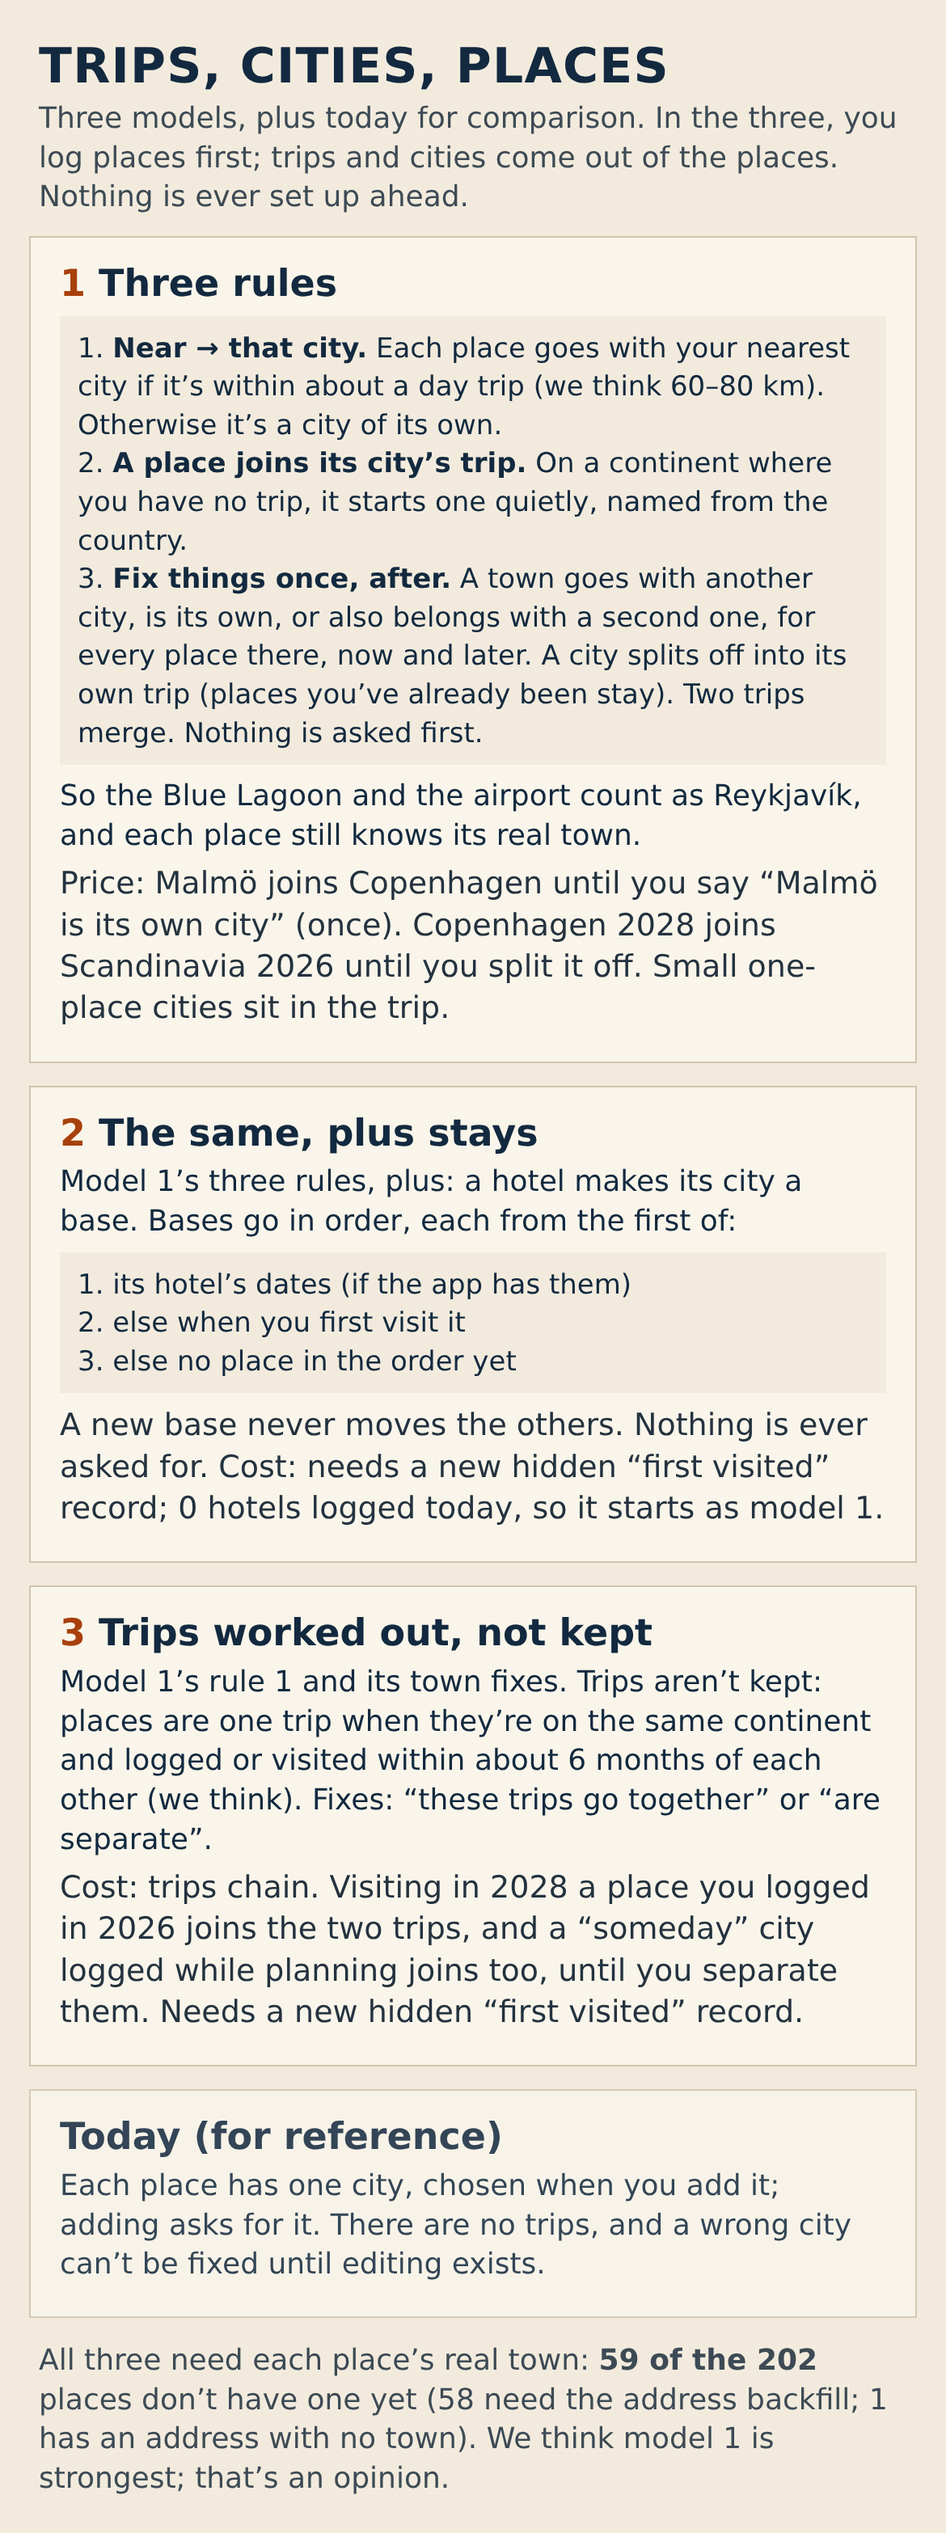
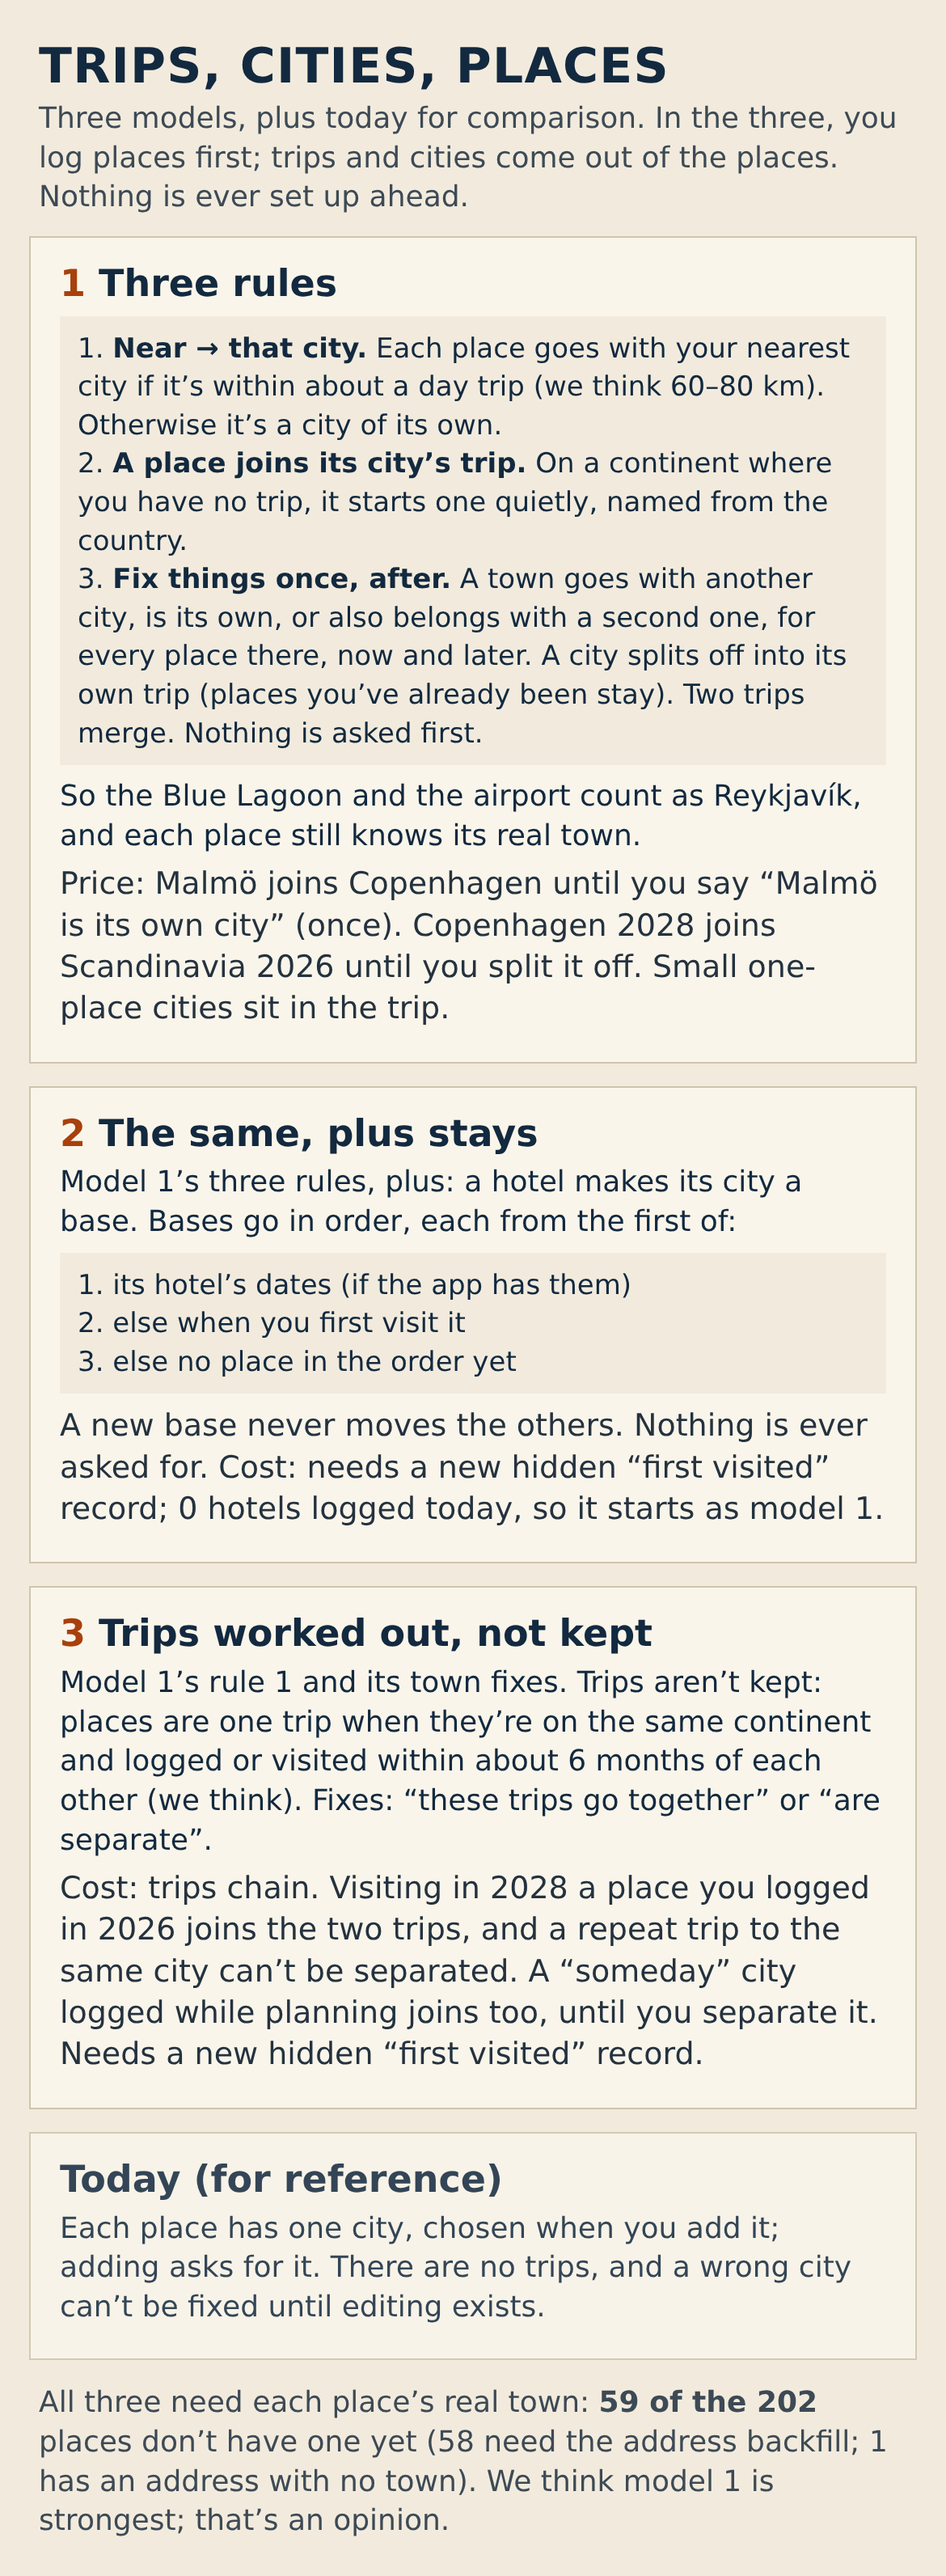
trip-model: Turn 22 honesty edits
Claude-Session: https://claude.ai/code/session_01KJurQQYHfCNMLJBzKaXeDY

diff --git a/design/trip-location-model/jobs.md b/design/trip-location-model/jobs.md
@@ -61,8 +61,9 @@ Every job below is read through P.
 - **Figure** (a "city" in the concept files): "the city I think of it
   with", a named group of places in one trip, made by rule 1 and the
   fixes.
-- **Reach:** about a day trip (we think 60-80 km, unmeasured), measured
-  to a figure's anchor (plumbing).
+- **Reach:** about a day trip (we think 60-80 km, unmeasured), a
+  straight line to a figure's anchor: the centre of its places, never a
+  municipal seat (plumbing).
 - **Rule 1:** each place by its own distance: within reach → the
   nearest figure; otherwise a figure of its own, even with one place.
   Only the owner's fixes override it; nothing else is remembered.
@@ -126,7 +127,8 @@ Every job below is read through P.
     - Check (1, 2): PASS if another trip's places never mix into this
       trip's views, that trip is one step away, and a repeat or someday
       trip on the same continent can be separated by fixes, never per
-      place (one split per city it covers).
+      place (one split per city it covers, plus merges to rejoin the
+      split cities into one trip for a multi-city repeat).
     - Check (3): PASS if all places can be seen together, with the
       trips distinct and nameable.
 11. **The map shows what the list shows.**
@@ -172,7 +174,7 @@ needs one fix fewer.
 | **T1 Øresund:** Saltholm, Kastrup Søbad (both in Tårnby municipality; Saltholm's we believe, not verified), with Malmö logged | All three are in the Copenhagen figure with nothing chosen. Putting Tårnby with Malmö takes **two fixes**: "Malmö is its own", then "Tårnby goes with Malmö", each moving every place in its town. (If OSM gives Saltholm no town or municipality, the second fix doesn't move it: say so.) FAIL if any step is per place |
 | **T2 The airport:** Keflavík (Reykjanesbær, about 50 km from Reykjavík); Kastrup (Tårnby), for both Copenhagen and Malmö | Keflavík is in Reykjavík with nothing chosen. Kastrup is in Copenhagen; in Malmö too after **two fixes** ("Malmö is its own", then "Tårnby also belongs with Malmö"). Concept 2: an airport is never a base |
 | **T3 Jönköping:** about 300 km from both Stockholm and Malmö | **a figure of its own** in the trip, in any logging order, with nothing chosen |
-| **T4 Repeat and someday trips:** Copenhagen in 2028, after Scandinavia 2026; Berlin logged while planning Scandinavia | concepts 1 and 2: both join Scandinavia, and **one split fix** each separates them (the split takes unvisited places, so 2026's visits stay). Concept 3: 2028 separates by time only if no 2026 place is visited in 2028; otherwise, and for Berlin, "these are separate" |
+| **T4 Repeat and someday trips:** Copenhagen in 2028, after Scandinavia 2026; Berlin logged while planning Scandinavia | concepts 1 and 2: both join Scandinavia, and **one split fix** each separates them (the split takes unvisited places, so 2026's visits stay). Concept 3: Berlin needs "these are separate"; 2028 separates only if nothing chains it to 2026, and a chained repeat to the same city can't be separated (a FAIL, in its Known limits) |
 
 Reference (today): it fails P, jobs 1, 2, 4-10, 12 and 13, and T1-T4,
 and passes 3 (a city filter, on the letter) and 11 (list and map share

diff --git a/design/trip-location-model/concepts/1-rule-that-remembers.md b/design/trip-location-model/concepts/1-rule-that-remembers.md
@@ -29,9 +29,10 @@ Nothing is created, named, chosen or dated before adding.
 
 ## Invisible plumbing (not needed for the common case)
 
-- **Reach** is measured to a city's **anchor**: the centre of its town
-  with the most places (ties: the earliest). The city takes that town's
-  name.
+- **Reach is a straight line**, measured to a city's **anchor**: the
+  centre of the city's own places in its town with the most places
+  (ties: the earliest). It's where your places are, never a municipal
+  seat. The city takes that town's name.
 - **A new city's trip:** the trip of the nearest city on its continent
   (normally your only one there). If a city is in two trips (Copenhagen
   2026 and 2028), the one added to most recently. A fix names a city;
@@ -66,13 +67,20 @@ Nothing is created, named, chosen or dated before adding.
 
 ## Worked case: the Golden Circle (rule 1, no memory)
 
-Þingvellir (about 45 km from Reykjavík), Geysir (about 100 km) and
-Gullfoss (about 115 km) are all in Bláskógabyggð municipality.
-- Þingvellir goes with Reykjavík (within reach).
-- Geysir is beyond reach → a city of its own, named "Bláskógabyggð".
-  Gullfoss, about 10 km from it, joins it. In either order.
-- If the owner wants all three under Reykjavík: one fix,
-  "Bláskógabyggð goes with Reykjavík".
+Þingvellir, Geysir and Gullfoss are all in Bláskógabyggð municipality.
+Straight-line distances are **approximate, from known coordinates, not
+measured**: Reykjavík → Þingvellir about 41 km, → Geysir about 81 km,
+→ Gullfoss about 90 km; Geysir → Gullfoss about 10 km; Geysir →
+Þingvellir about 41 km.
+- Gullfoss is beyond reach → a city of its own ("Bláskógabyggð"), and
+  Geysir, about 10 km away, joins it. Geysir alone sits at the edge of a
+  60-80 km reach, so on its own it could go either way.
+- **Þingvellir is roughly a tie** between Reykjavík and that new city.
+  It can land either way, depending on what's logged and the exact
+  anchors.
+- **One fix settles it** either way: "Bláskógabyggð goes with
+  Reykjavík" puts all three under Reykjavík; "Bláskógabyggð is its own
+  city" keeps all three together, Þingvellir included.
 
 ## The prices, said plainly
 
@@ -100,6 +108,8 @@ Gullfoss (about 115 km) are all in Bláskógabyggð municipality.
 - **The name can change** as another town in a city overtakes the
   anchor, and **reach is a range**, so a place at about 70 km is a
   judgement call until the number is measured.
+- **Near-ties between two cities** (Þingvellir) can land either way; one
+  town fix settles them.
 
 ## How you move
 

diff --git a/design/trip-location-model/jam.md b/design/trip-location-model/jam.md
@@ -2275,3 +2275,38 @@ rule is now a one-line **Known limit**.
 
 NEXT: fresh checker (light pass on the ids above); then the
 orchestrator sends the overview and Q1-Q6, Q8.
+
+## Turn 22 -- product designer (systems focus): check 5's two claims (honesty edits only)
+
+No new rules.
+
+- **F0, reach and the Golden Circle:**
+  - Concept 1's plumbing and jobs.md Terms now say reach is a
+    **straight line** to the anchor. The anchor is **the centre of the
+    city's own places** in its biggest town, never a municipal seat.
+  - The Golden Circle case is redone with approximate straight-line
+    distances (from known coordinates, **not measured**):
+    - Reykjavík → Þingvellir about 41 km, → Geysir about 81 km, →
+      Gullfoss about 90 km;
+    - Geysir → Gullfoss about 10 km, → Þingvellir about 41 km.
+  - Results:
+    - Geysir sits at the edge of reach.
+    - **Þingvellir is roughly a tie and can land either way.**
+    - One fix settles it.
+  - "Near-ties between two cities" is added to Known limits.
+- **F1, concept 3's T4:**
+  - It's graded **FAIL for a repeat trip to the same city**. When the
+    places chain, "separate" is keyed by cities, Copenhagen is in both
+    trips, and nothing says which places go where.
+  - It moves into Known limits as a one-liner.
+  - Berlin still passes.
+  - jobs.md T4 says so.
+- **J10 (jobs.md):** a multi-city repeat now reads "one split per city,
+  plus merges to rejoin them", matching concept 1's limit.
+- **Concept 2:** "only Hotel-category places are stays, so an airport, a
+  district or a street is never a base".
+- **Overview:** card 3's cost now says a repeat trip to the same city
+  can't be separated. It was re-rendered (1170x3185) and read at phone
+  size.
+
+NEXT: orchestrator — send the overview and Q1-Q6, Q8.

diff --git a/design/trip-location-model/notes/systems.md b/design/trip-location-model/notes/systems.md
@@ -47,3 +47,4 @@
 - Turn 17: check 3 applied. Trip assignment (active trip with the real city → nearest active same-continent trip → new; past = 60 days; continent table; view never decides; split correction; global memory). Nearby band 300 km replaces the spread. Concept 2: stay promotes On-the-way town; non-base figures unordered; ties; no-time visits. Concept 3: continent + 6-month time-gap clusters. No-town → next OSM level, else by location. Districts/streets = places. jobs 5/8/12 tightened; today passes 11 only; T2 both branches. Overview re-rendered 1170x3520. Q5 extended (widen vs own trip).
 - Turn 19: Turn 18 applied. Concept 1 = three rules + plumbing; 2 = +hotel base +order; 3 = rules 1,3 + time-gap rule; files open with numbered rules. jobs: C4 retired, T1/T2 border off (two fixes), T3 own city, new T4 (split). Split takes unvisited places (needs director check). Overview 1170x2911. No 'he' found in Turn 18.
 - Turn 21: final pass. Rule 2 = 'joins its city's trip'; memory = owner fixes only (Golden Circle by distance); rule 3 lists goes with/is its own/also belongs with/split (visited stay)/merge; Known limits in 1/2/3; concept 3 heading 'Trips worked out, not kept', How you move as concept 1, honest T4, first-visited prereq; today J3 PASS, T4 FAIL, C4 gone; overview price lines darker/larger, 1170x3133.
+- Turn 22: F0 (straight-line reach from the city's own places; Golden Circle approx, Þingvellir a tie, one fix), F1 (concept 3 T4 FAIL for a same-city repeat, in Known limits), J10 splits+merges, concept 2 airport line; overview card 3 cost, 1170x3185.

diff --git a/design/trip-location-model/concepts/3-no-trip-container.md b/design/trip-location-model/concepts/3-no-trip-container.md
@@ -47,15 +47,20 @@ plus one more view: **everything**, with trips distinct and nameable.
 - Paris 2024 and Scandinavia 2026: two trips (years apart, nothing
   links them).
 - T1-T3: as concept 1.
-- **T4:** Copenhagen 2028 separates by itself **only if** nothing from
-  2026 is visited in 2028. The likely case, a 2026 leftover you go back
-  for, links the two, and "these trips are separate" fixes it. Someday
-  Berlin needs the same fix.
+- **T4: FAIL for a repeat trip to the same city.** Copenhagen 2028
+  separates by itself only if nothing chains it to 2026. When it does
+  (a 2026 leftover visited in 2028), there's one worked-out trip, and
+  "these trips are separate" has no way to say which Copenhagen places
+  go where (concept 1's split has "places you've already been stay";
+  this model has nothing like it). Someday Berlin is fine: "separate"
+  works on a distinct city.
 
 ## Known limits (no rule added for these)
 
 - **Trips chain:** a someday city logged mid-planning, a 2026 leftover
   visited in 2028, or a year of steady logging on one continent.
+- **A chained repeat trip to the same city can't be separated** (T4):
+  the fix is keyed by cities, and Copenhagen is in both.
 - **Marking a place visited can re-form trips,** so the trip you're
   looking at can change under you.
 - No trip ever closes; an old trip is one nothing new links to.

diff --git a/design/trip-location-model/concepts/2-rule-plus-stays.md b/design/trip-location-model/concepts/2-rule-plus-stays.md
@@ -28,7 +28,8 @@ for.
   can't stand in).
 - The order is something the trip has; how a view shows it is not this
   model's call.
-- Districts and streets are never hotels, so never bases.
+- Only Hotel-category places are stays, so an airport, a district or a
+  street is never a base.
 
 ## Off by default: stretches (Q4)
 
